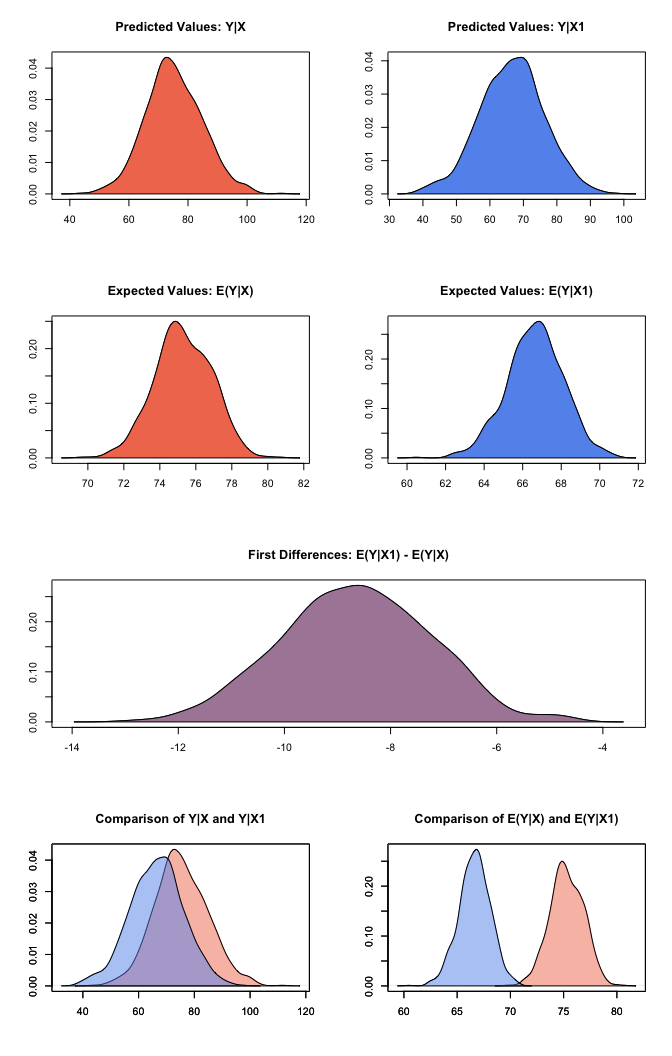
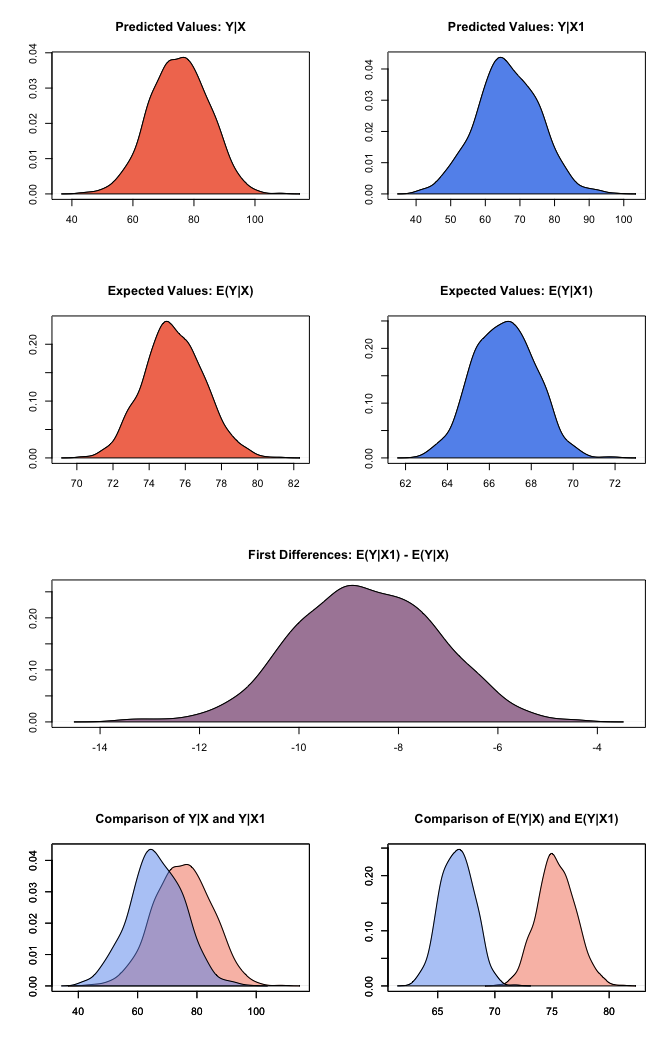
minor figs

diff --git a/README.md b/README.md
@@ -1,5 +1,5 @@
 <!-- README.md is generated from README.Rmd. Please edit that file -->
-[![zelig-logo](README_files/img/zelig.png)](http://zeligproject.org)
+[![zelig-logo](man/figures/zelig.png)](http://zeligproject.org)
 
 <!--- Badges ----->
 **Release:** [![CRAN
@@ -179,23 +179,23 @@ After setting our predictor value, we simulate using the `sim()` method:
     ##  sim x :
     ##  -----
     ## ev
-    ##      mean       sd      50%     2.5%    97.5%
-    ## 1 75.2888 1.586298 75.22004 72.20159 78.20523
+    ##       mean       sd      50%     2.5%    97.5%
+    ## 1 75.36997 1.650294 75.30099 72.31297 78.65929
     ## pv
     ##          mean       sd      50%     2.5%    97.5%
-    ## [1,] 75.26338 9.560771 74.69245 57.34326 94.23264
+    ## [1,] 75.24528 9.544411 75.37412 56.41196 93.44682
     ## 
     ##  sim x1 :
     ##  -----
     ## ev
-    ##      mean       sd      50%    2.5%    97.5%
-    ## 1 66.6376 1.479519 66.68145 63.6632 69.44812
+    ##       mean       sd      50%     2.5%    97.5%
+    ## 1 66.71956 1.450892 66.71837 63.91693 69.52701
     ## pv
     ##          mean       sd      50%     2.5%    97.5%
-    ## [1,] 66.53433 9.601661 66.68754 46.48515 84.79195
+    ## [1,] 66.47671 9.096596 66.25873 48.29963 83.88586
     ## fd
-    ##        mean       sd       50%      2.5%     97.5%
-    ## 1 -8.651203 1.409564 -8.641817 -11.36574 -6.008429
+    ##        mean       sd       50%      2.5%    97.5%
+    ## 1 -8.650416 1.432889 -8.662048 -11.40429 -5.99384
 
 At this point, we’ve estimated a model, set the predictor value, and
 estimated easily interpretable quantities of interest. The `summary()`
